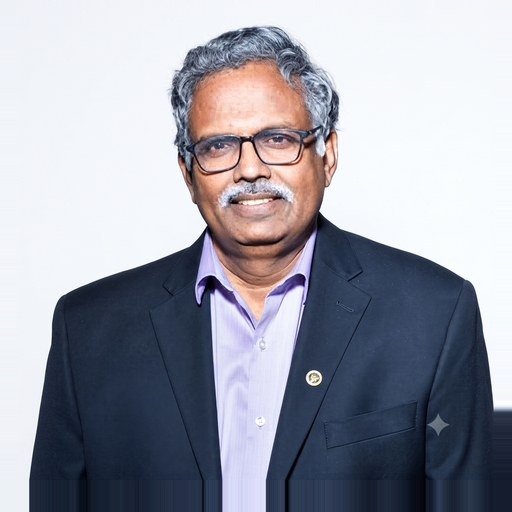
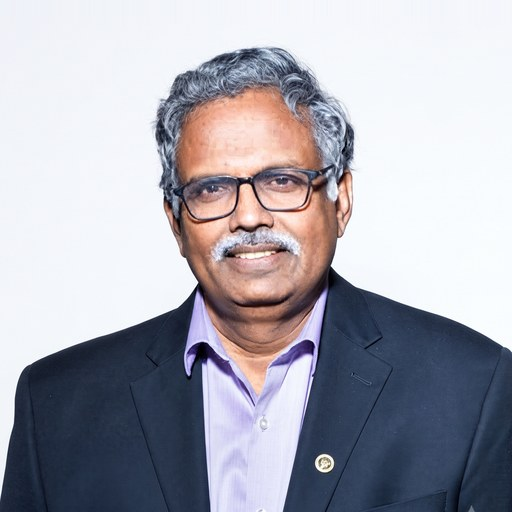
Align Shankar Rachakonda's shoulder line with the rest of row 1
His shoulders sat about 66px (13% of the frame) above the row median. The
cause is his head: it is the smallest in the set because his source is shot
from further back, so with matched headroom the crown-to-shoulder distance
is shorter and the shoulders land high.

Translating him down alone would have pushed his headroom to ~90px and left
his head floating low. Instead he is re-rendered at 1.10x with the crown at
48px: his head size comes into line with the others and the shoulders drop
with it, landing at 335 against the row's 331-352.

This partly reverses his earlier 0.93 zoom-out. That fixed headroom; this
fixes the shoulder line, and for his source the two pull in opposite
directions.

diff --git a/logs/PROJECT_LOG.md b/logs/PROJECT_LOG.md
@@ -826,3 +826,25 @@ It is still worth keeping, for two reasons that are not the original one: it car
 **Verification:** 10 files, all distinct by MD5. Raw files inspected for fill artifacts; screenshots re-captured at all three breakpoints.
 
 **Status:** ✅ SUCCESS — one open item: Gemini watermark.
+
+## 2026-09-22 — Leadership section: Shankar Rachakonda shoulder line aligned
+
+**Trigger:** Raima noted Shankar's shoulders sat higher than the rest of row 1.
+
+**Measured** (row where the jacket first covers 75% of the visible 4:5 band, 512-space): Shankar 275; rest of row 1 331–352, median 341. About 66px (13% of the frame) high.
+
+**Root cause:** his head is the smallest in the set, since his source is shot from further back. With headroom matched to everyone else's, a smaller head means a shorter crown-to-shoulder distance, so the shoulder line lands higher.
+
+**Options considered:**
+- *Translate down only.* Aligning the shoulders this way would push his headroom from 27px to ~90px, leaving his head floating low under an empty band and breaking the headroom consistency set in the previous entry. Rejected.
+- *Enlarge, then place.* Scaling him up brings his head size in line with the others, which drops the shoulders with it. Chosen.
+
+**Applied:** re-rendered from the 2048px original at 1.10× (up from 0.93×), crown placed at 48px, the new `place.py` generalising `zoomout.py` to scales above 1. The 22px top margin is edge-filled backdrop; his source's top row is clean backdrop, so no feathering was needed.
+
+**Result:** shoulder line 275 → 335, inside the row's 331–352 range. Head size now close to Srinivas Chamarthi's beside him, and headroom (48) close to his as well.
+
+**Note:** this partly reverses the 0.93 zoom-out from the previous entry. That entry fixed headroom; this one fixes the shoulder line, and for Shankar the two goals pull in opposite directions because of how his source was shot. Enlarging was the only way to satisfy the shoulders without breaking the headroom.
+
+**Verification:** 10 files, all distinct by MD5; screenshots re-captured at all three breakpoints.
+
+**Status:** ✅ SUCCESS — Gemini watermark still open (see previous entry).
